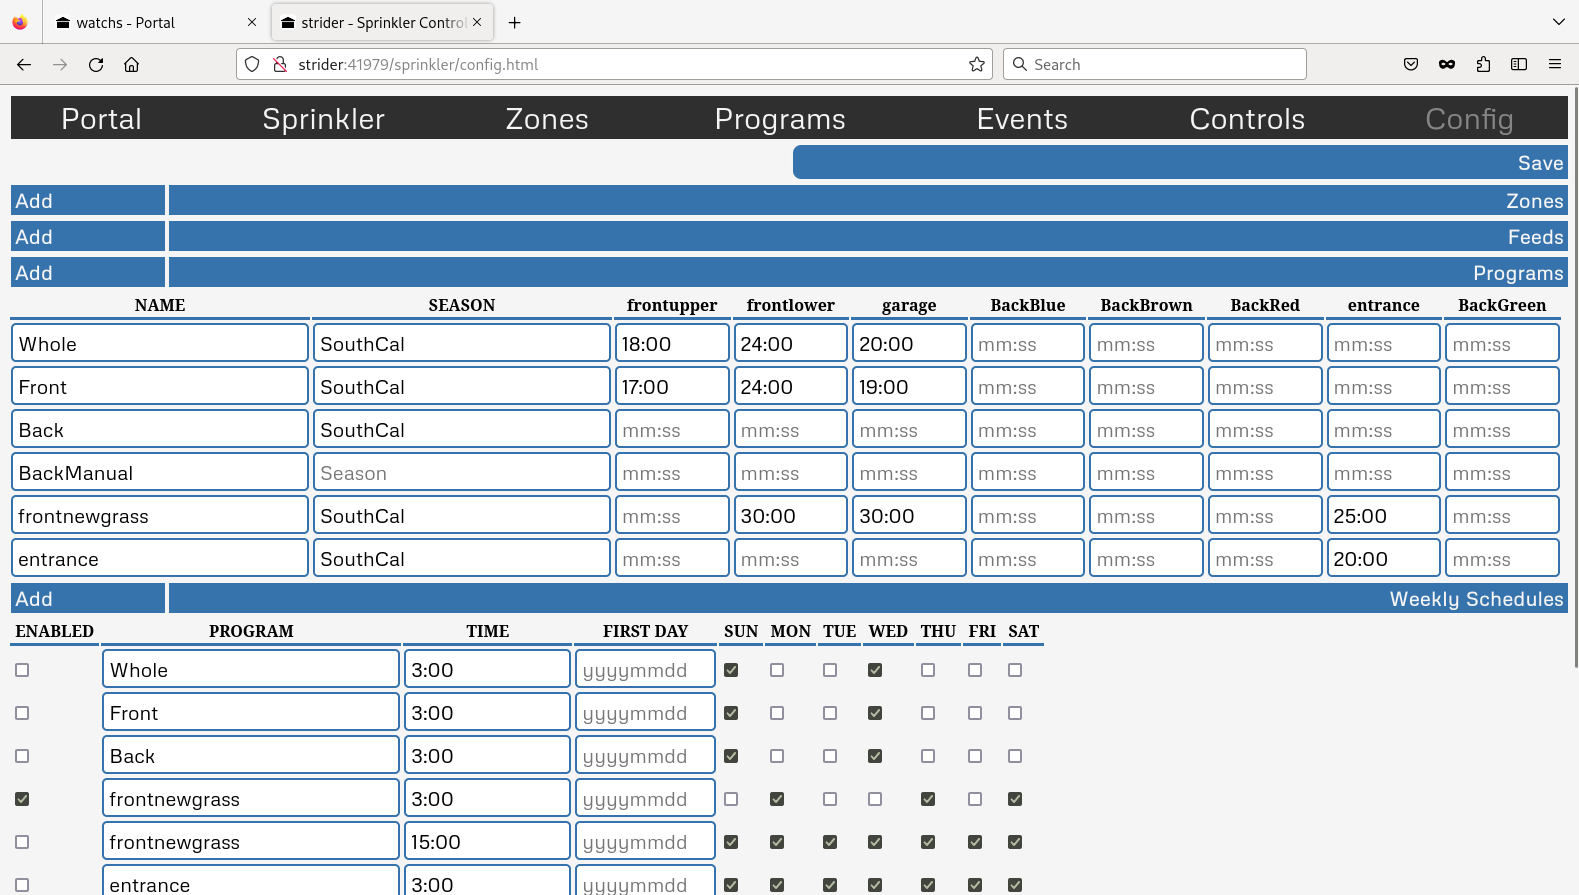
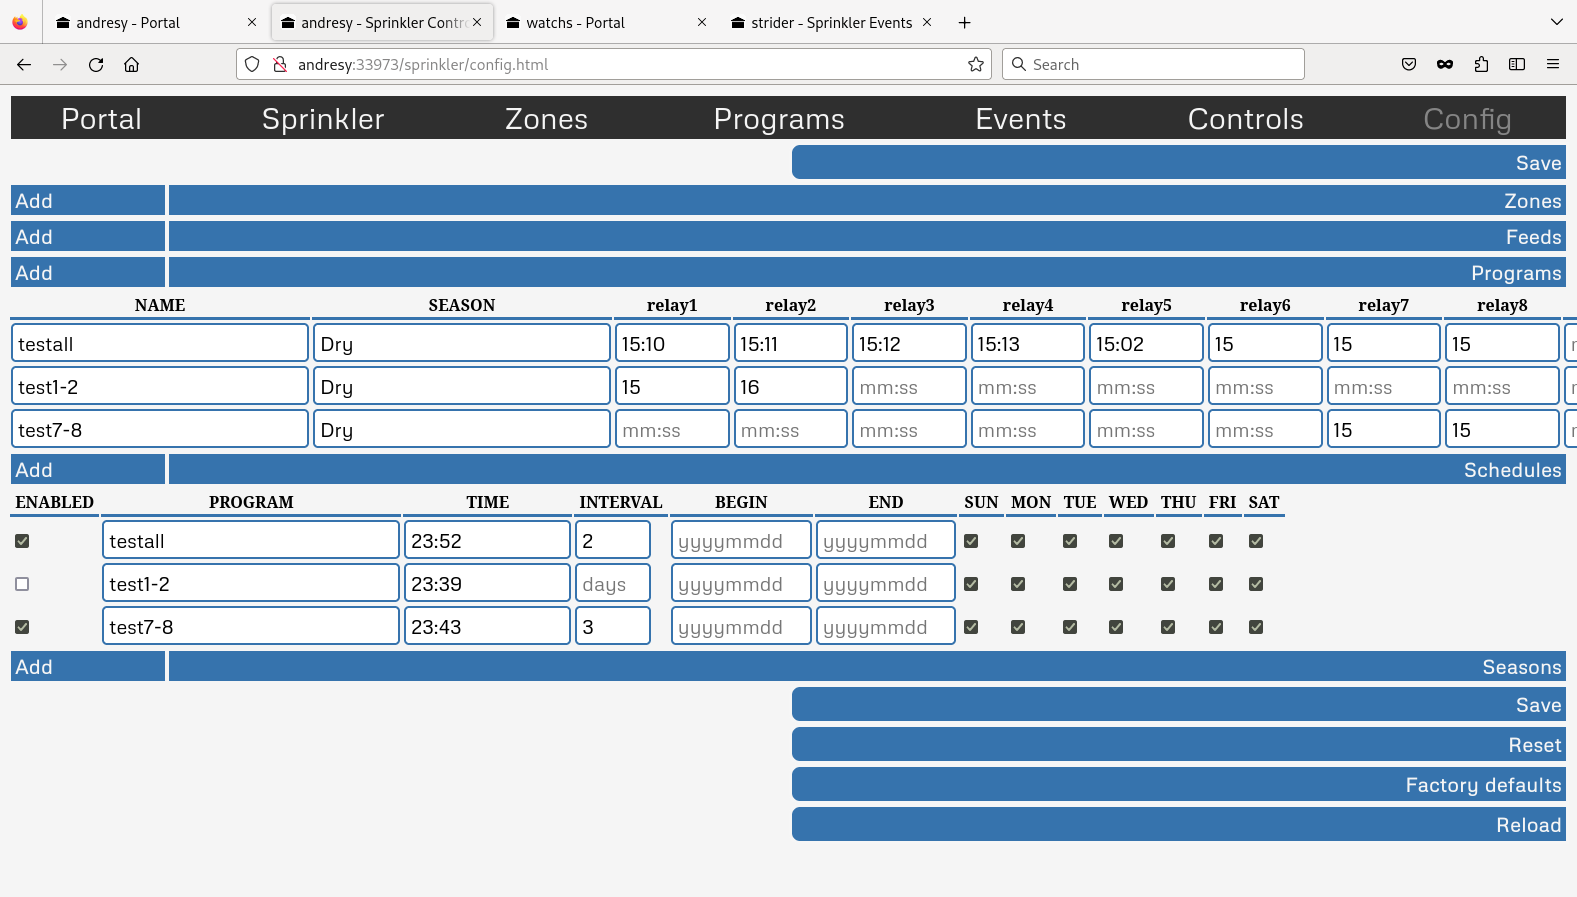
Combine weekly and daily schedule modes

diff --git a/public/config.html b/public/config.html
@@ -10,8 +10,10 @@ var editing = null;
 var ShownZoneCount = 0;
 var ShownFeedCount = 0;
 var ShownProgramCount = 0;
-var ShownWeeklyCount = 0;
+var ShownScheduleCount = 0;
 var ShownSeasonCount = 0;
+
+var ScheduleDictionary = new Array();
 
 var gui = new Object();
 
@@ -52,6 +54,12 @@ function getZones() {
         count += 1;
     }
     return result;
+}
+
+function uuidv4() {
+  return "10000000-1000-4000-8000-100000000000".replace(/[018]/g, c =>
+    (+c ^ crypto.getRandomValues(new Uint8Array(1))[0] & 15 >> +c / 4).toString(16)
+  );
 }
 
 function saveConfig () {
@@ -148,7 +156,7 @@ function saveConfig () {
        newconfig.schedules = new Array();
 
        var count = 0;
-       for (var i = 0; i < ShownWeeklyCount; i++) {
+       for (var i = 0; i < ShownScheduleCount; i++) {
           var prefix = 'schedule_'+i+'_';
           if (!form.schedule[prefix+'program']) continue;
           if (form.schedule[prefix+'program'].value.length == 0) continue;
@@ -157,14 +165,22 @@ function saveConfig () {
           newconfig.schedules[count].disabled = (form.schedule[prefix+'enabled'].checked == false);
           newconfig.schedules[count].program = form.schedule[prefix+'program'].value;
           newconfig.schedules[count].start = form.schedule[prefix+'start'].value;
-          if (form.schedule[prefix+'date'].value)
-             newconfig.schedules[count].date = form.schedule[prefix+'date'].value;
-          newconfig.schedules[count].repeat = 'weekly';
+          if (form.schedule[prefix+'interval']) {
+              if (form.schedule[prefix+'interval'].value.length > 0) {
+                  newconfig.schedules[count].interval = parseInt (form.schedule[prefix+'interval'].value);
+              }
+          }
+          if (form.schedule[prefix+'begin'].value)
+             newconfig.schedules[count].begin = form.schedule[prefix+'begin'].value;
+          if (form.schedule[prefix+'end'].value)
+             newconfig.schedules[count].end = form.schedule[prefix+'end'].value;
+
           newconfig.schedules[count].days = new Array();
           for (var j = 0; j < 7; j++) {
              newconfig.schedules[count].days[j] =
                 form.schedule[prefix+'days_'+j].checked;
           }
+          newconfig.schedules[count].id = ScheduleDictionary[i];
           count += 1;
        }
     }
@@ -390,7 +406,10 @@ function showOneSchedule (schedules, i, elements, count) {
       showCheckboxColumn (outer, prefix+'enabled', (schedule.disabled == false));
       showTextInputColumn (outer, prefix+'program', schedule.program, 'Program name');
       showTextInputColumn (outer, prefix+'start', schedule.start, 'hh:mm (24)', 10);
-      showTextInputColumn (outer, prefix+'date', schedule.date, 'yyyymmdd', 8);
+      showTextInputColumn (outer, prefix+'interval', schedule.interval, 'days', 3);
+      showTextInputColumn (outer, prefix+'begin', schedule.begin, 'yyyymmdd', 8);
+      showTextInputColumn (outer, prefix+'end', schedule.end, 'yyyymmdd', 8);
+
       for (var d = 0; d < WeekDays.length; d++) {
           showCheckboxColumn (outer, prefix+'days_'+d, schedule.days[d]);
       }
@@ -412,8 +431,9 @@ function addSchedule () {
    editing.schedules[i].interval = 1;
 
    var elements = document.getElementsByName('scheduletable');
-   showOneSchedule (editing.schedules, i, elements, ShownWeeklyCount);
-   ShownWeeklyCount += 1;
+   ScheduleDictionary[ShownScheduleCount] = uuidv4();
+   showOneSchedule (editing.schedules, i, elements, ShownScheduleCount);
+   ShownScheduleCount += 1;
    forceVisible('configschedule');
 }
 
@@ -672,14 +692,19 @@ function showExistingSchedules (schedules) {
    var elements = document.getElementsByName('scheduletable');
 
    resetSection (elements);
-   ShownWeeklyCount = 0;
+   ShownScheduleCount = 0;
 
-   showTitle (elements, ["ENABLED", "PROGRAM", "TIME", "FIRST DAY"].concat(WeekDays));
+   showTitle (elements, ["ENABLED", "PROGRAM", "TIME", "INTERVAL", "BEGIN", "END"].concat(WeekDays));
    if (!schedules) return;
    for (var i = 0; i < schedules.length; i++) {
       if (schedules[i]) {
-          showOneSchedule (schedules, i, elements, ShownWeeklyCount);
-          ShownWeeklyCount += 1;
+          if (schedules[i].id) {
+              ScheduleDictionary[ShownScheduleCount] = schedules[i].id;
+          } else {
+              ScheduleDictionary[ShownScheduleCount] = uuidv4(); // Upgrade.
+          }
+          showOneSchedule (schedules, i, elements, ShownScheduleCount);
+          ShownScheduleCount += 1;
       }
    }
 }
@@ -762,7 +787,7 @@ window.onload = function() {
    </form>
    <table width="100%"><tr>
    <td width="10%"><button class="addbutton" onclick="addSchedule()">Add</button></td>
-   <td width="90%"><button class="configbuttonwithadd" onclick="visible('configschedule')">Weekly Schedules</button></td>
+   <td width="90%"><button class="configbuttonwithadd" onclick="visible('configschedule')">Schedules</button></td>
    </tr></table>
    <form name="schedule">
    <div name="configschedule" class="hidable" display="none">

diff --git a/housesprinkler_schedule.c b/housesprinkler_schedule.c
@@ -57,6 +57,7 @@
 
 #include <string.h>
 #include <stdlib.h>
+#include <uuid/uuid.h>
 
 #include <echttp.h>
 #include <echttp_json.h>
@@ -74,15 +75,15 @@
 static int SprinklerOn = 1;
 
 typedef struct {
+    uuid_t id;
     const char *program;
-    char enabled;
+    char disabled;
     time_t begin;
     time_t until;
     struct {
         short hour;
         short minute;
     } start;
-    char repeat;
     char days[7];
     char interval;
     time_t lastlaunch;
@@ -138,8 +139,11 @@ void housesprinkler_schedule_refresh (void) {
     char path[128];
     const char *programname = ".program";
 
+    // Keep the old schedule set on the side, to recover some live data.
+    SprinklerSchedule *oldschedules = Schedules;
+    int oldschedulescount = SchedulesCount;
+
     // Recalculate all watering schedules.
-    if (Schedules) free (Schedules);
     Schedules = 0;
     SchedulesCount = 0;
     content = housesprinkler_config_array (0, ".schedules");
@@ -170,33 +174,34 @@ void housesprinkler_schedule_refresh (void) {
             continue;
         }
 
-        Schedules[i].repeat = SPRINKLER_REPEAT_ONCE;
-        const char *s = housesprinkler_config_string (schedule, ".repeat");
-        if (s) {
-            if (strcmp(s, "weekly") == 0) {
+        // Retrieve the schedule's ID. If none can be recovered, just
+        // generate a new ID so that there is always one.
+        //
+        const char *id = housesprinkler_config_string (schedule, ".id");
+        if (id) {
+            if (uuid_parse (id, Schedules[i].id)) {
+                uuid_generate_random (Schedules[i].id);
+            }
+        } else {
+            uuid_generate_random (Schedules[i].id);
+        }
 
-                Schedules[i].repeat = SPRINKLER_REPEAT_WEEKLY;
-                int days = housesprinkler_config_array (schedule, ".days");
-                j = 0;
-                if (days > 0) {
-                    int daylist[8];
-                    int daycount = housesprinkler_config_enumerate (days, daylist);
-                    for (j = 0; j < daycount; ++j) {
-                        Schedules[i].days[j] =
-                            housesprinkler_config_boolean (daylist[j], "");
-                    }
-                }
-                for (; j < 8; ++j) Schedules[i].days[j] = 0;
-
-            } else if (strcmp(s, "daily") == 0) {
-
-                Schedules[i].repeat = SPRINKLER_REPEAT_DAILY;
-                Schedules[i].interval = housesprinkler_config_integer (schedule, ".interval");
+        int days = housesprinkler_config_array (schedule, ".days");
+        j = 0;
+        if (days > 0) {
+            int daylist[8];
+            int daycount = housesprinkler_config_enumerate (days, daylist);
+            for (j = 0; j < daycount; ++j) {
+                Schedules[i].days[j] =
+                    housesprinkler_config_boolean (daylist[j], "");
             }
         }
+        for (; j < 8; ++j) Schedules[i].days[j] = 0;
+
+        Schedules[i].interval = housesprinkler_config_integer (schedule, ".interval");
         Schedules[i].begin = housesprinkler_schedule_time (schedule, ".begin");
         Schedules[i].until = housesprinkler_schedule_time (schedule, ".until");
-        s = housesprinkler_config_string (schedule, ".start");
+        const char *s = housesprinkler_config_string (schedule, ".start");
         if (s) {
             Schedules[i].start.hour = atoi(s);
             const char *m = strchr (s, ':');
@@ -205,14 +210,30 @@ void housesprinkler_schedule_refresh (void) {
             Schedules[i].start.hour = -1; // Will never start, basically.
         }
         Schedules[i].lastlaunch = 0;
-        Schedules[i].enabled =
-            housesprinkler_config_boolean (schedule, ".disabled")?0:1;
+        Schedules[i].disabled =
+            housesprinkler_config_boolean (schedule, ".disabled");
         DEBUG ("\tSchedule program %s at %02d:%02d\n",
                Schedules[i].program, Schedules[i].start.hour, Schedules[i].start.minute);
     }
 
     SprinklerOn = housesprinkler_config_backup_get (".on");
     RainDelay = (time_t)housesprinkler_config_backup_get (".raindelay");
+
+    // Last step: recover the last launch time of already existing schedules.
+    //
+    if (!oldschedules) return; // Nothing to recover or free.
+
+    for (i = 0; i < oldschedulescount; ++i) {
+        if (oldschedules[i].disabled) continue; // Nothing to recover.
+        for (j = 0; j < SchedulesCount; ++j) {
+            if (uuid_compare (oldschedules[i].id, Schedules[j].id)) continue;
+
+            Schedules[j].lastlaunch = oldschedules[i].lastlaunch;
+
+            DEBUG ("Schedule %d (%s at %02d:%02d) recovers data from %d (%s at %02d:%02d)\n", j, Schedules[j].program, Schedules[j].start.hour, Schedules[j].start.minute, i, oldschedules[i].program, oldschedules[i].start.hour, oldschedules[i].start.minute);
+        }
+    }
+    free (oldschedules);
 }
 
 void housesprinkler_schedule_switch (void) {
@@ -287,8 +308,8 @@ void housesprinkler_schedule_periodic (time_t now) {
 
             DEBUG ("== Checking schedule for program %s\n", schedule->program);
 
-            if (!schedule->enabled) continue;
-            DEBUG ("== schedule for program %s is enabled\n", schedule->program);
+            if (schedule->disabled) continue;
+            DEBUG ("== program %s is enabled\n", schedule->program);
 
             if (housesprinkler_program_running(schedule->program)) continue;
 
@@ -296,6 +317,7 @@ void housesprinkler_schedule_periodic (time_t now) {
 
             // Start only at the time specified.
             //
+            DEBUG ("== Program %s: must start at %02d:%02d\n", schedule->program, schedule->start.hour, schedule->start.minute);
             if (local.tm_hour != schedule->start.hour
                 || local.tm_min != schedule->start.minute) continue;
 
@@ -308,29 +330,18 @@ void housesprinkler_schedule_periodic (time_t now) {
 
             DEBUG ("== Program %s: schedule is active\n", schedule->program);
 
-            // Start only on the days specified, or at the daily interval
-            // specified.
+            // Start only on the days specified.
             //
-            int delta;
-            int match = 0;
-            switch (schedule->repeat) {
-                case SPRINKLER_REPEAT_WEEKLY:
-                    match = schedule->days[local.tm_wday];
-                    break;
-                case SPRINKLER_REPEAT_DAILY:
-                    match = (((now - schedule->lastlaunch) / 86400) >= schedule->interval);
-                    break;
-                case SPRINKLER_REPEAT_ONCE:
-                    delta = schedule->begin - now;
-                    match = (schedule->lastlaunch == 0 && delta > 0 && delta < 60);
-                    break;
-                default:
-                    match = 0;
+            if (!schedule->days[local.tm_wday]) continue;
+
+            DEBUG ("== Program %s: schedule is for this day\n", schedule->program);
+
+            // Start only after the specified day interval has passed.
+            //
+            if (schedule->interval > 1) {
+                if (((now - schedule->lastlaunch + 3) / 86400) < schedule->interval) continue;
             }
-            if (!match) {
-                DEBUG ("== Program %s is not active this day\n", schedule->program);
-                continue;
-            }
+            DEBUG ("== Program %s: interval  %d has passed\n", schedule->program, schedule->interval);
 
             DEBUG ("== Program %s activated\n", schedule->program);
             housesprinkler_program_start_scheduled (schedule->program);

diff --git a/gallery/README.md b/gallery/README.md
@@ -15,7 +15,7 @@ The block on the left (which appears on most pages) provides an overview of the 
 * The current duration of the rain delay, or NONE if there is no pending rain delay.
 * The value (and origin) of the current watering index.
 
-The buttons on the right side are rather self-explanatory. The Refresh button forces a rediscovery of the control and water index services. This is mostly used when one of these services was started (or restarted) and one does not want to wait for the periodic discovery.
+The buttons on the right side are mostly self-explanatory. The Refresh button forces a rediscovery of the control and water index services. This is mostly used when one of these services was started (or restarted) and one does not want to wait for the periodic discovery. Disabling the Index mechanism actually disables all of them, including the season index (see later for the description of seaseason index).
 
 The Zones page allow manual control of individual zones, bypassing programs:
 
@@ -50,6 +50,8 @@ It is possible to create feed chains that merge, for example a first chain lists
 The list of programs define which zones are activated, and for how long, for each program. A program may also reference a season, which provide a local, static, monthly watering index. Seasons can be used when no online watering index is available.
 
 The list of schedules define when to activate a specific program. The same program may be activated at various times per week or day, but no activation can take place while the same program is active. Two different programs can be activated simultaneously: the application will silently combine them.
+
+A schedule combines the capability of a weekly or daily schedule. A weekly schedule defines which days of the week the program shall be run. A daily schedule defines how many days beween two runs of the program (like every other day or ever 5 days). Here, the two modes can be defined in combination. A weekly schedule will normally have a blank interval. A daily schedule normally have all days of the week selected, but it is possible to exclude days of the week. For example, a daily schedule might be setup to run the program every 3 days, but not on a Saturday; if the activation falls on a Saturday, excluding this day will cause the program to be run on Sunday (the next selected day). The Begin and End dates make it possible to enable the schedule for a time period only; it is valid to specify only one date and leave the other blank.
 
 The list of seasons provide a local mean to configure watering indexes. One may define multiple seasons to handle various ground coverage situations (for example an area under the shadow of trees may be less sensitive than an area exposed to the sun).
 
